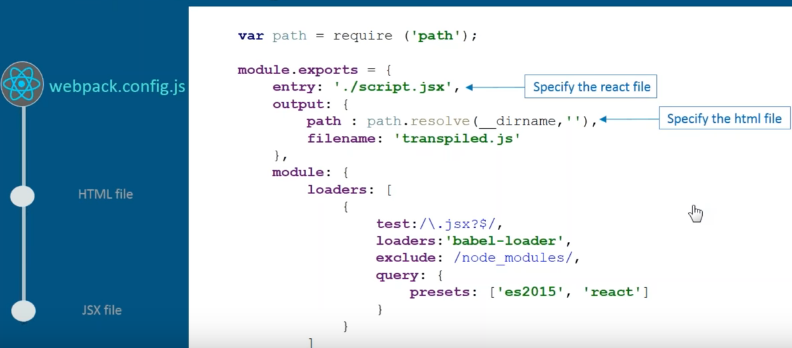
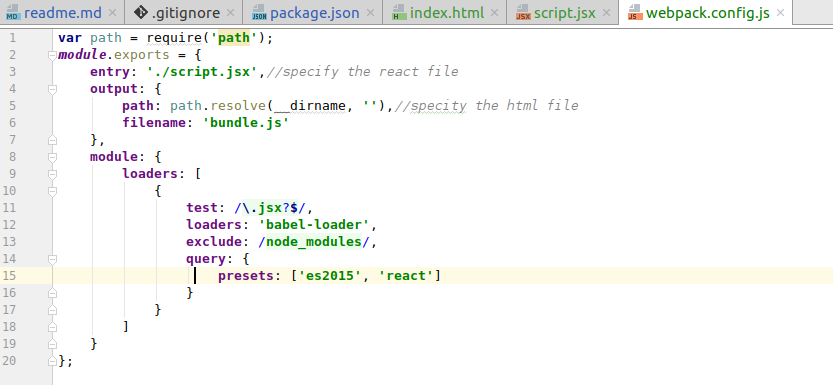
app configuration and hello world

diff --git a/webpack.config.js b/webpack.config.js
@@ -1,0 +1,20 @@
+var path = require('path');
+module.exports = {
+    entry: './script.jsx',//specify the react file
+    output: {
+        path: path.resolve(__dirname, ''),//specity the html file
+        filename: 'bundle.js'
+    },
+    module: {
+        loaders: [
+            {
+                test: /\.jsx?$/,
+                loaders: 'babel-loader',
+                exclude: /node_modules/,
+                query: {
+                    presets: ['es2015', 'react']
+                }
+            }
+        ]
+    }
+};

diff --git a/script.jsx b/script.jsx
@@ -1,0 +1,12 @@
+import React from 'react';
+import ReactDom from 'react-dom';
+
+class MyComponent extends React.Component {
+    render() {
+        return (
+            <h2>Hello world</h2>
+        );
+    }
+}
+
+ReactDom.render(<MyComponent/>, document.getElementById('content'));

diff --git a/index.html b/index.html
@@ -1,0 +1,13 @@
+<!DOCTYPE html>
+<html lang="en">
+<head>
+    <meta charset="UTF-8">
+    <title>React Book App</title>
+</head>
+<body>
+
+<div id="content"></div>
+
+<script src="./bundle.js"></script>
+</body>
+</html>

diff --git a/readme.md b/readme.md
@@ -6,7 +6,7 @@
 Install webpack  
 `npm install webpack webpack-dev-server --save-dev`
 
-Install React along with react dom  
+Install React along with react-dom  
 `npm install react react-dom --save`
 
 Install Babel Dependencies  
@@ -14,9 +14,21 @@ Install Babel Dependencies
 
 
 **Create basic Files**
-* webpack.config.js (info about the dependencies and files from where browser should start rendering)
-* html (html template which is used by browser to render the element)
-* jsx file (contains description of what all components we want to display on our webpage and how they'll behave)
-
-
+* webpack.config.js (info about the dependencies and files from where browser should start rendering)  
 ![webpack.config.js](https://github.com/selvesandev/react-book-app/blob/master/doc-img/webpack.png)
+  
+* html (html template which is used by browser to render the element)  
+![index.html](https://github.com/selvesandev/react-book-app/blob/master/doc-img/index.png)
+  
+* jsx file (contains description of what all components we want to display on our webpage and how they'll behave)  
+![jsx](https://github.com/selvesandev/react-book-app/blob/master/doc-img/webpack.png)
+
+
+* Edit the package.json File  
+```php
+"scripts": {
+    "it": "webpack-dev-server --hot"
+  }
+```
+
+Not type `npm run it` in the terminal
